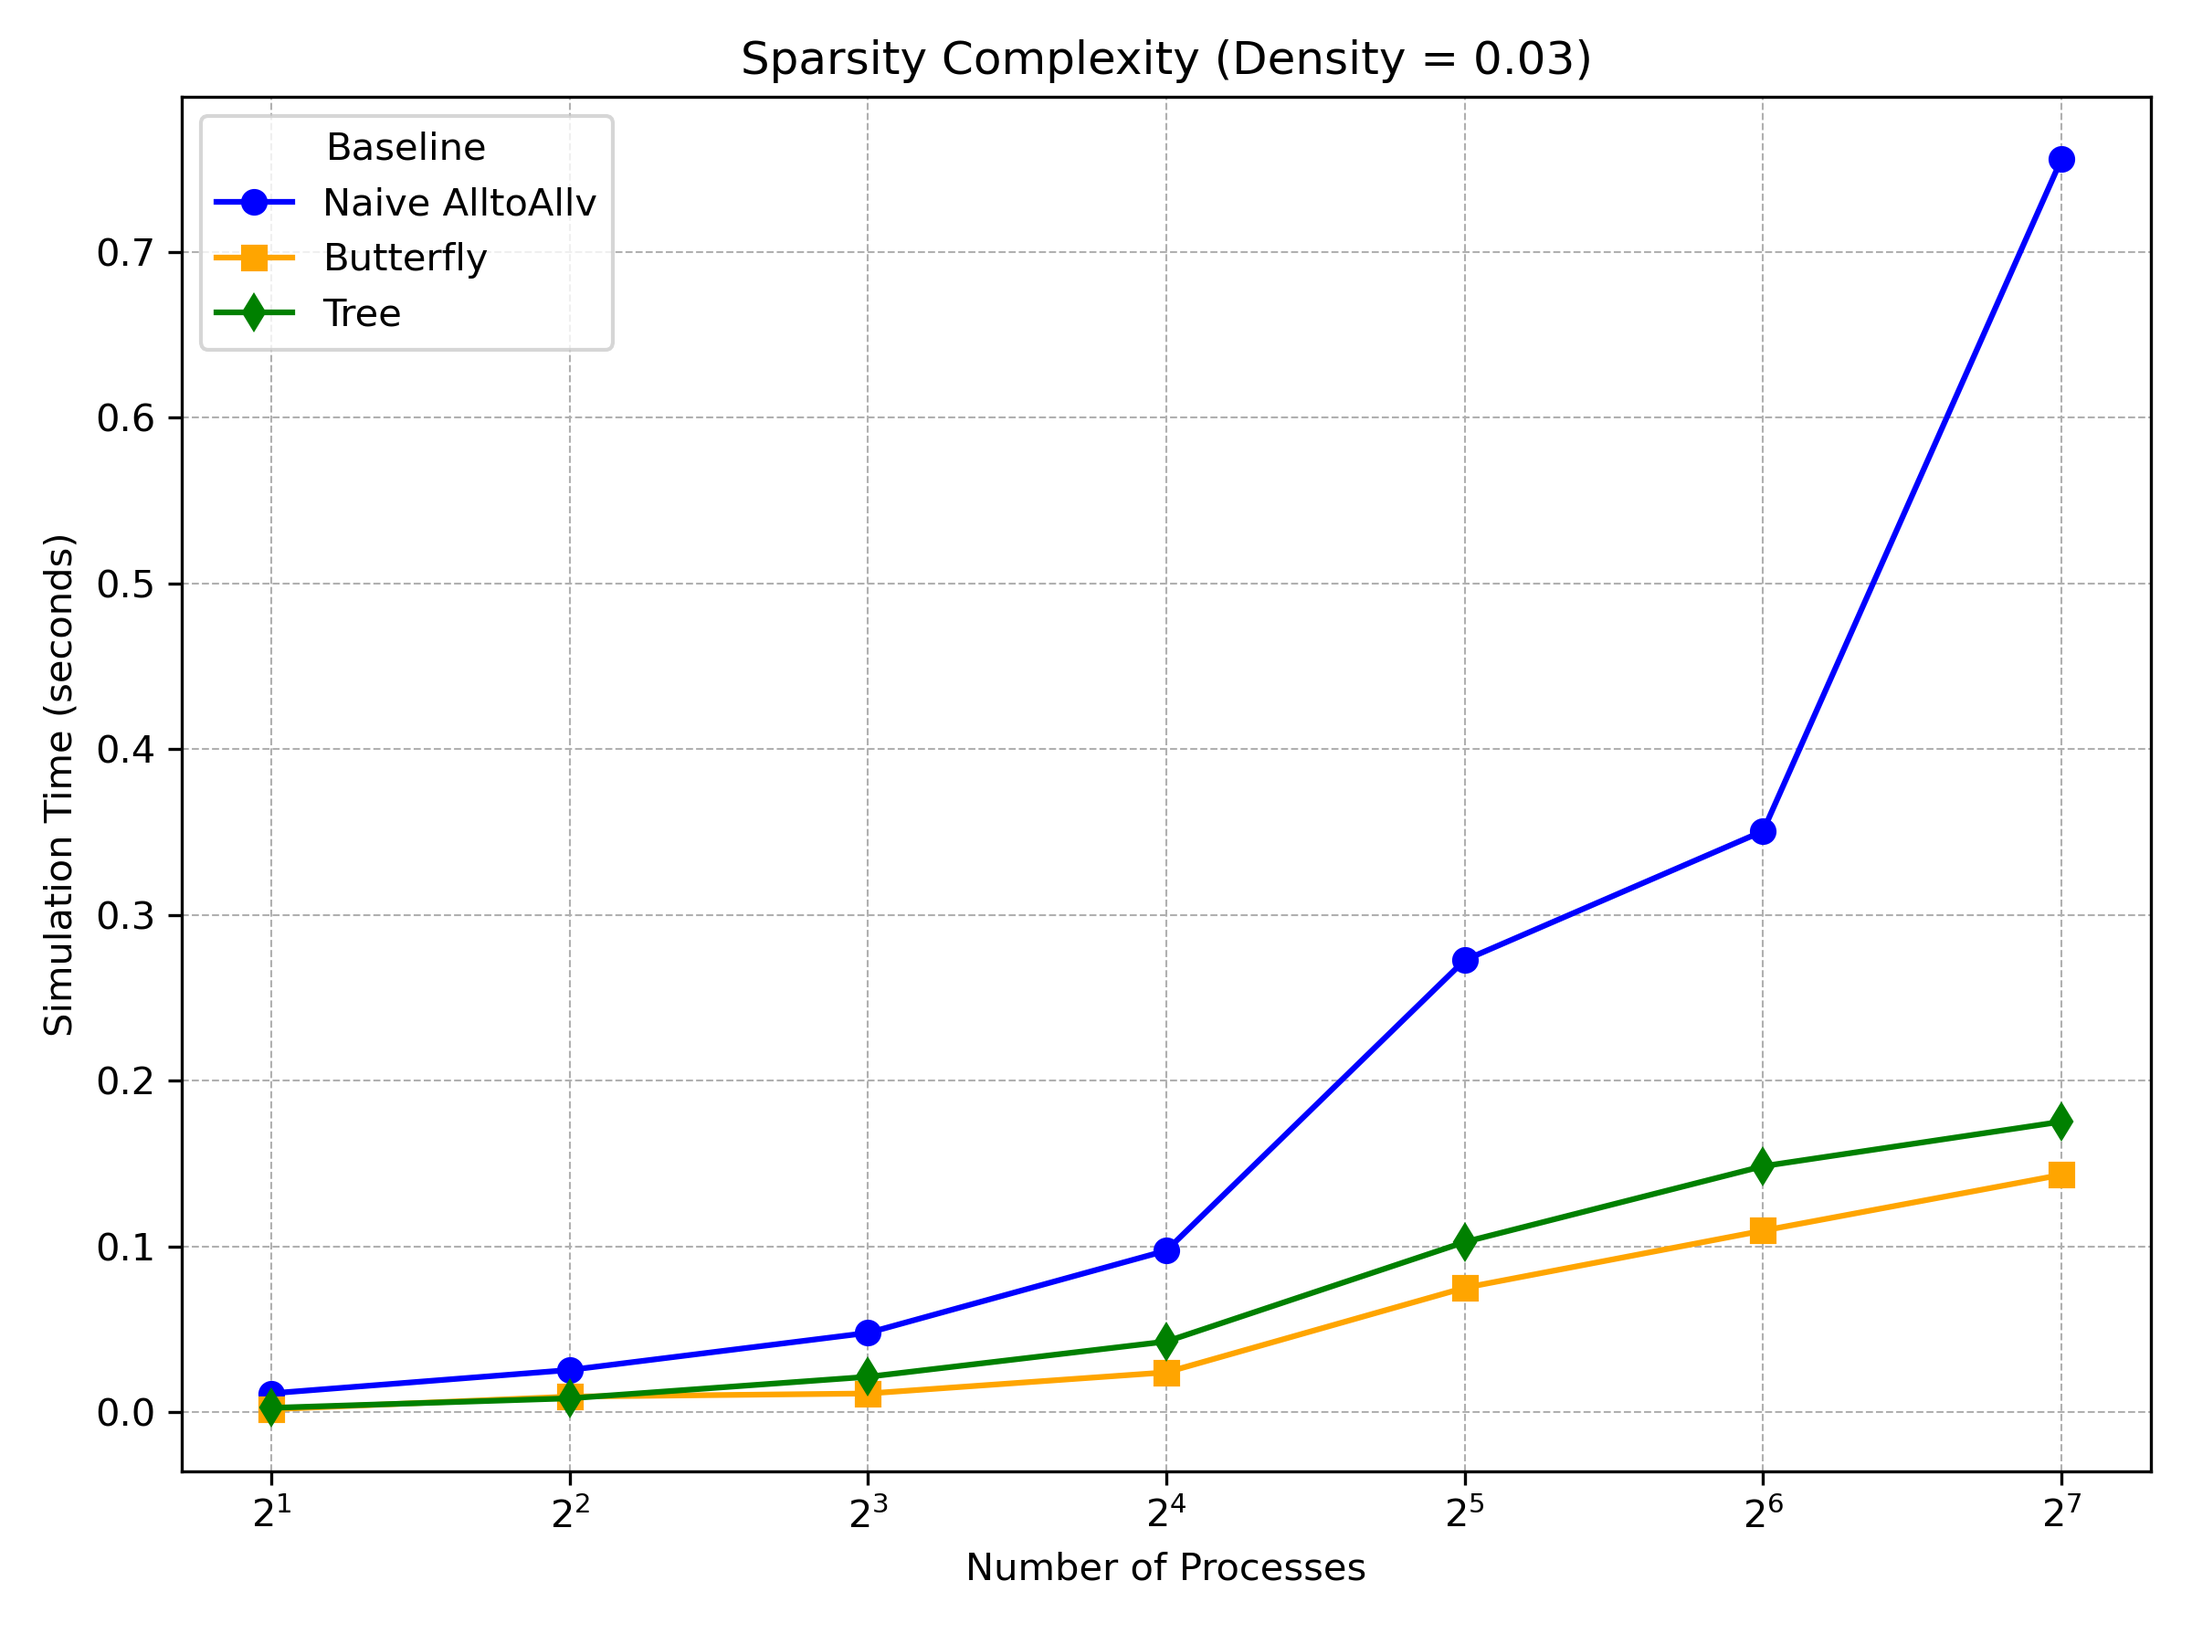
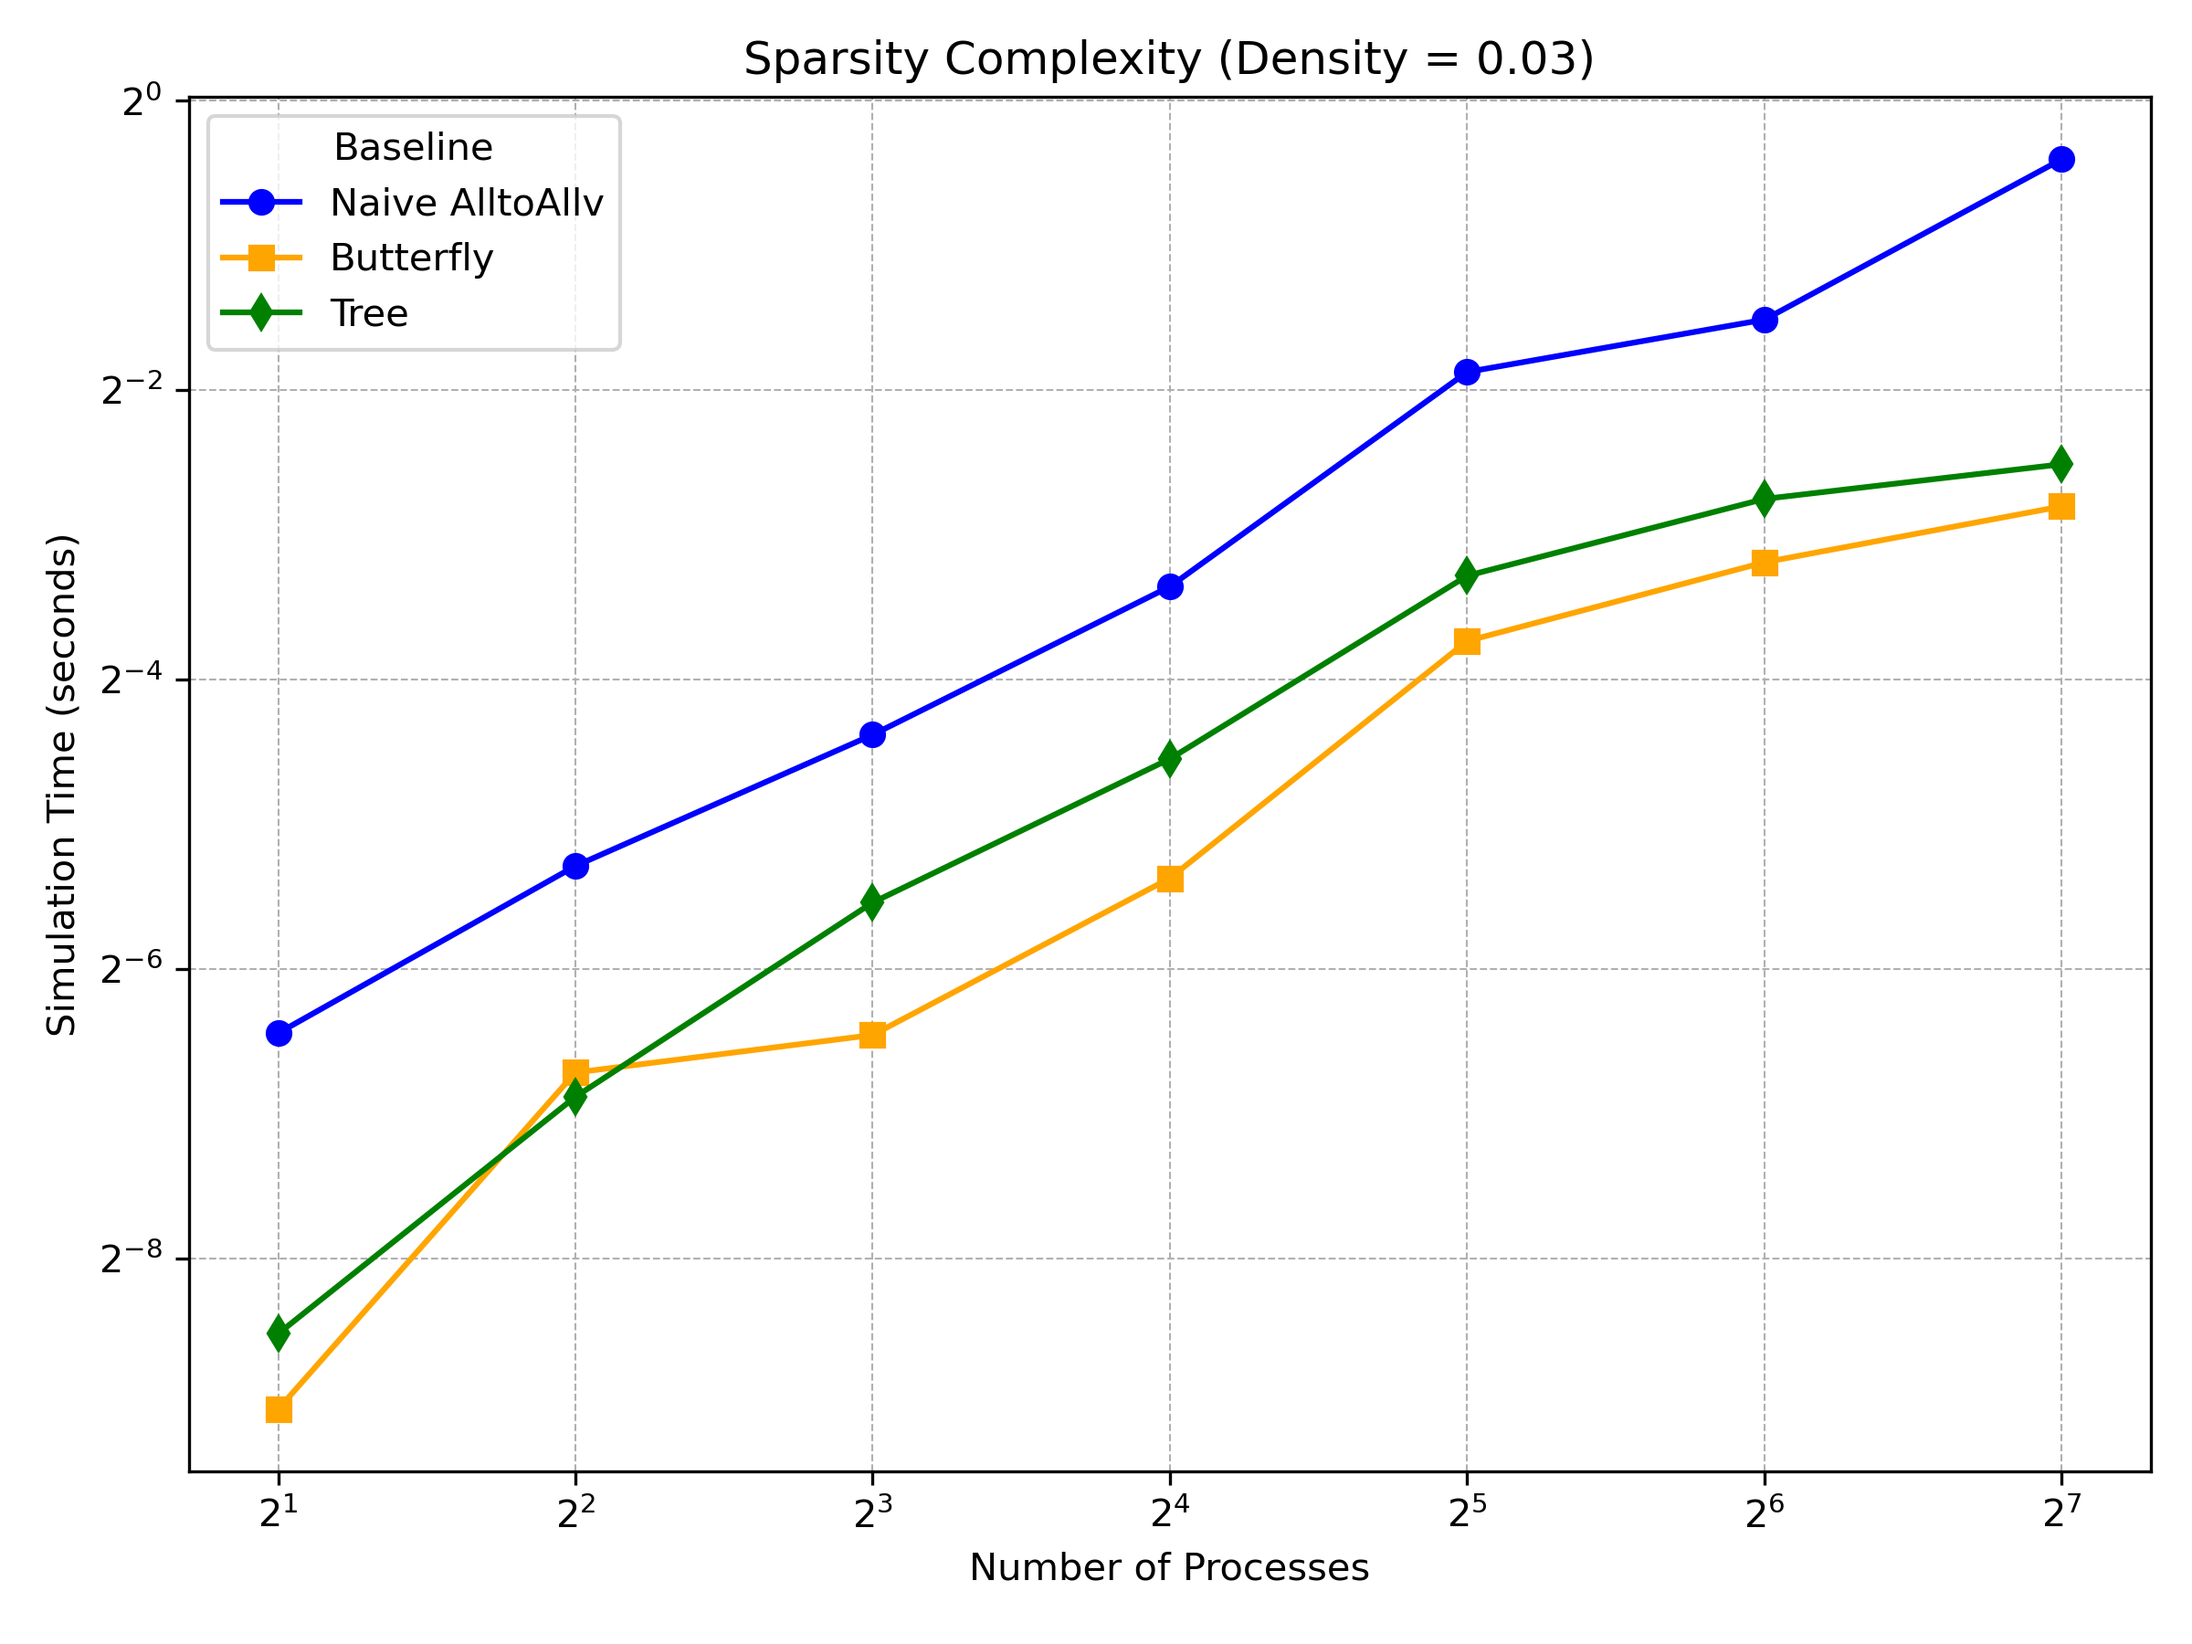
pretty plots

diff --git a/plot_sparse.py b/plot_sparse.py
@@ -5,56 +5,101 @@ import os
 df = pd.read_csv("sparse.csv")
 
 baseline_labels = {
-    # 2: 'Naive AlltoAllv',
-    # 3: 'Butterfly',
-    # 4: 'Tree',
-    11: 'Naive AlltoAllv',
-    12: 'Delta Encoding AlltoAllv',
-    13: 'Bitmap Encoding AlltoAllv',
+    2: 'Naive',
+    3: 'Butterfly',
+    4: 'Tree',
+    5: 'Ring',
+    # 11: 'Naive AlltoAllv',
+    # 12: 'Delta Encoding AlltoAllv',
+    # 13: 'Bitmap Encoding AlltoAllv',
 }
 
 # remove the rows from df that don't have a Baseline value in the baseline_labels
 df = df[df['Baseline'].isin(baseline_labels.keys())]
 
 
-densities = sorted(df['Density'].unique())
-baselines = sorted(df['Baseline'].unique())
+# densities = sorted(df['Density'].unique())
+# baselines = sorted(df['Baseline'].unique())
 
+baselines = [2, 5, 4, 3]
 
+densities = [0.01, 0.05, 0.1, 0.2]
 
 colors = ['blue', 'orange', 'green', 'red', 'purple']
 markers = ['o', 's', 'd', '^', '*']
 
 baseline_style = {
-    # 2: (colors[0], markers[0]),
-    # 3: (colors[1], markers[1]),
-    # 4: (colors[2], markers[2]),
-    11: (colors[0], markers[0]),
-    12: (colors[1], markers[1]),
-    13: (colors[2], markers[2]),
+    2: (colors[0], markers[0]),
+    3: (colors[1], markers[1]),
+    4: (colors[2], markers[2]),
+    5: (colors[3], markers[3]),
+    # 11: (colors[0], markers[0]),
+    # 12: (colors[1], markers[1]),
+    # 13: (colors[2], markers[2]),
 }
 
 os.makedirs("plots", exist_ok=True)
 
-for density in densities:
-    plt.figure(figsize=(8, 6))
+# for density in densities:
+#     plt.figure(figsize=(8, 6))
+    
+#     for baseline in baselines:
+#         subset = df[(df['Density'] == density) & (df['Baseline'] == baseline)]
+#         subset = subset.sort_values('TasksPerNode')
+
+#         color, marker = baseline_style.get(baseline, ('black', 'o'))
+#         plt.plot(subset['TasksPerNode'], subset['Time'],
+#                  marker=marker, color=color, label=baseline_labels.get(baseline, f"Baseline {baseline}"))
+    
+#     plt.title(f"Sparsity Complexity (Density = {density})")
+#     plt.xlabel("Number of Processes")
+#     plt.ylabel("Simulation Time (seconds)")
+#     plt.xscale('log', base=2)
+#     plt.yscale('log', base=2)
+#     plt.grid(True, which="both", ls="--", lw=0.5)
+#     plt.legend(title="Baseline")
+#     plt.tight_layout()
+
+#     filename = f"plots/graph_density_{density}.png"
+#     plt.savefig(filename, dpi=300)
+#     plt.close()
+
+
+# PRETTY PLOTS!
+
+num_densities = len(densities)
+cols = 2  # number of columns you want in the subplot grid
+rows = (num_densities + cols - 1) // cols  # compute number of rows needed
+
+fig, axes = plt.subplots(rows, cols, figsize=(cols * 4, rows * 3))
+
+# Flatten axes in case it's 2D
+axes = axes.flatten()
+
+for idx, density in enumerate(densities):
+    ax = axes[idx]
     
     for baseline in baselines:
         subset = df[(df['Density'] == density) & (df['Baseline'] == baseline)]
         subset = subset.sort_values('TasksPerNode')
 
         color, marker = baseline_style.get(baseline, ('black', 'o'))
-        plt.plot(subset['TasksPerNode'], subset['Time'],
-                 marker=marker, color=color, label=baseline_labels.get(baseline, f"Baseline {baseline}"))
-    
-    plt.title(f"Sparsity Complexity (Density = {density})")
-    plt.xlabel("Number of Processes")
-    plt.ylabel("Simulation Time (seconds)")
-    plt.xscale('log', base=2)
-    plt.grid(True, which="both", ls="--", lw=0.5)
-    plt.legend(title="Baseline")
-    plt.tight_layout()
+        ax.plot(subset['TasksPerNode'], subset['Time'],
+                marker=marker, color=color, label=baseline_labels.get(baseline, f"Baseline {baseline}"), markersize=5, linewidth=1.5)
 
-    filename = f"plots/graph_compression_{density}.png"
-    plt.savefig(filename, dpi=300)
-    plt.close()
+    ax.set_title(f"Density = {density}", fontsize=8)
+    ax.set_xlabel("Number of Processes", fontsize=8)
+    ax.set_ylabel("Simulation Time (seconds)", fontsize=8)
+    ax.set_xscale('log', base=2)
+    ax.set_yscale('log', base=2)
+    # ax.grid(True, which="both", ls="--", lw=0.5)
+    ax.tick_params(axis='both', which='major', labelsize=7)  # tick labels smaller
+    ax.legend(title="Baseline", fontsize=6, title_fontsize=7, loc="best", frameon=True)
+
+# Hide any unused subplots
+for idx in range(len(densities), len(axes)):
+    fig.delaxes(axes[idx])
+
+plt.tight_layout()
+plt.savefig("plots/combined_density_graphs.png", dpi=300)
+plt.show()

diff --git a/main.cpp b/main.cpp
@@ -177,7 +177,11 @@ int main(int argc, char** argv) {
         }
         // sparse vector + ring
         case 5: {
+            std::cout << "Rank" << rank << ": ";
+            print_sparse_vector(vec);
             SparseVector result = ring_reduce_sparse(vec, rank, num_procs);
+            std::cout << "Rank" << rank << ": ";
+            print_sparse_vector(result);
             break;
         }
         // uncompressed alltoall
